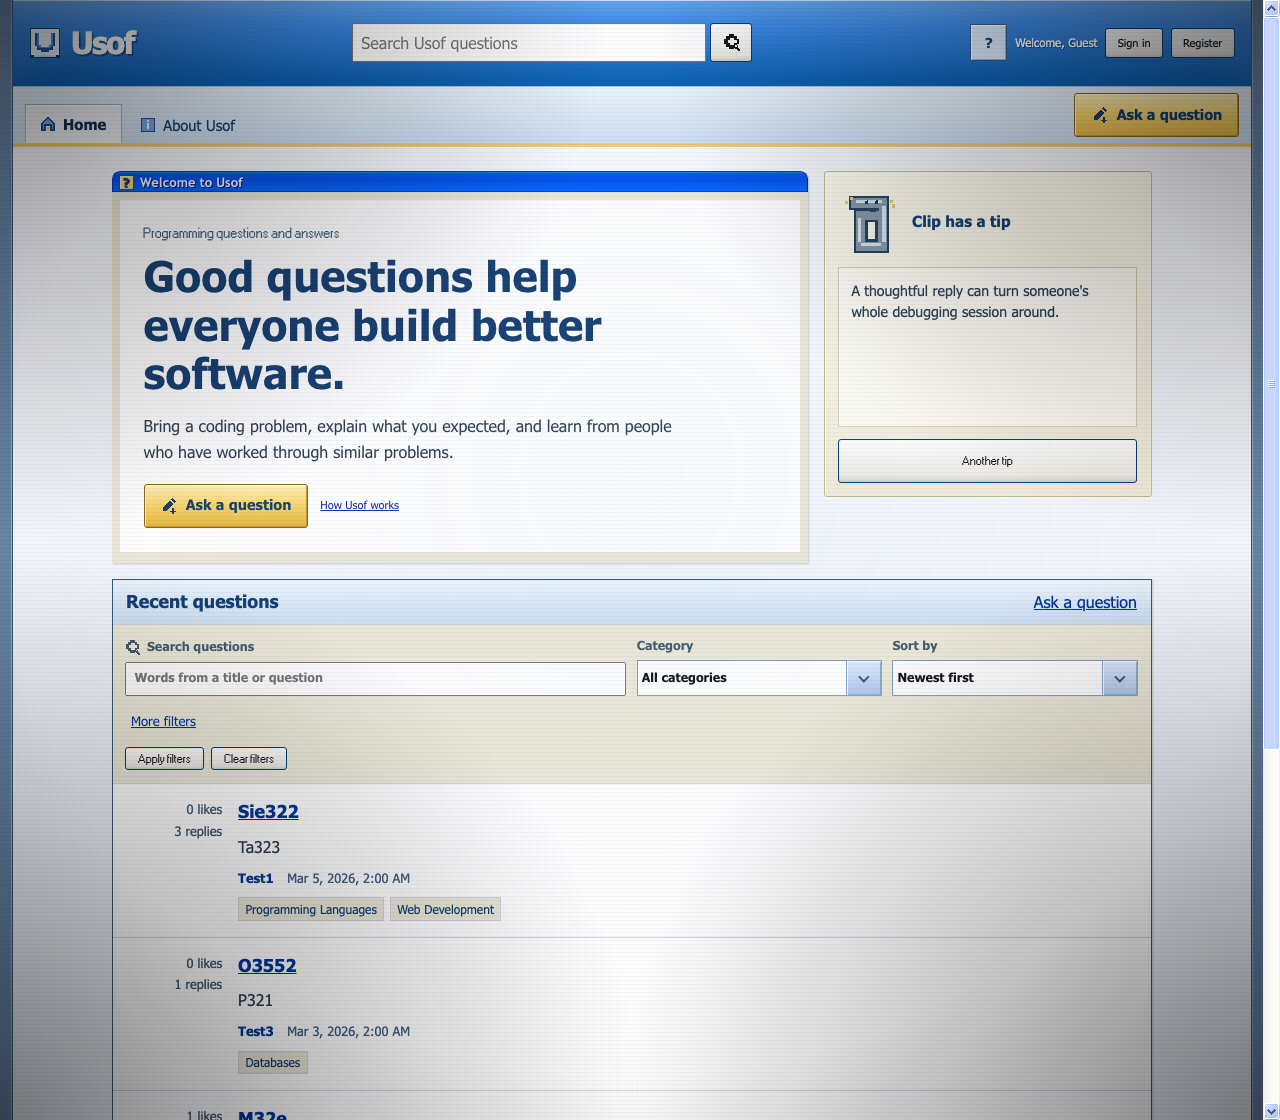
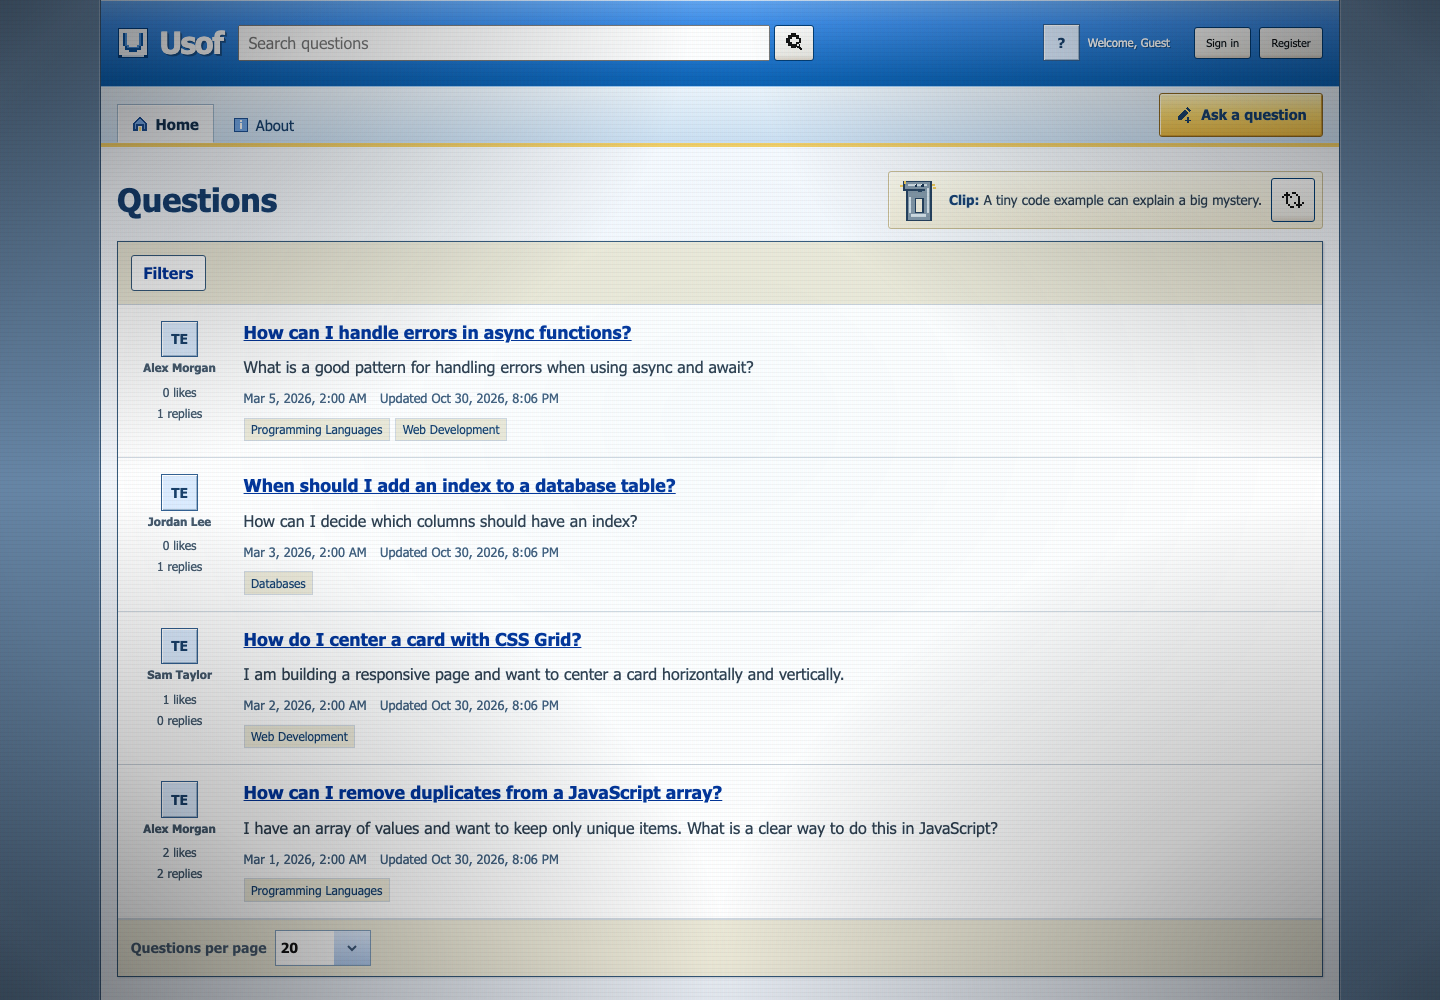
docs: updated screenshots

diff --git a/README.md b/README.md
@@ -8,6 +8,8 @@ The frontend uses React, Redux Toolkit, React Router and xp.css. The backend use
 
 ![Home page](web/docs/screenshots/home-desktop.png)
 
+![Home page on mobile](web/docs/screenshots/home-mobile.png)
+
 ![Question page](web/docs/screenshots/question-desktop.png)
 
 ## Requirements
